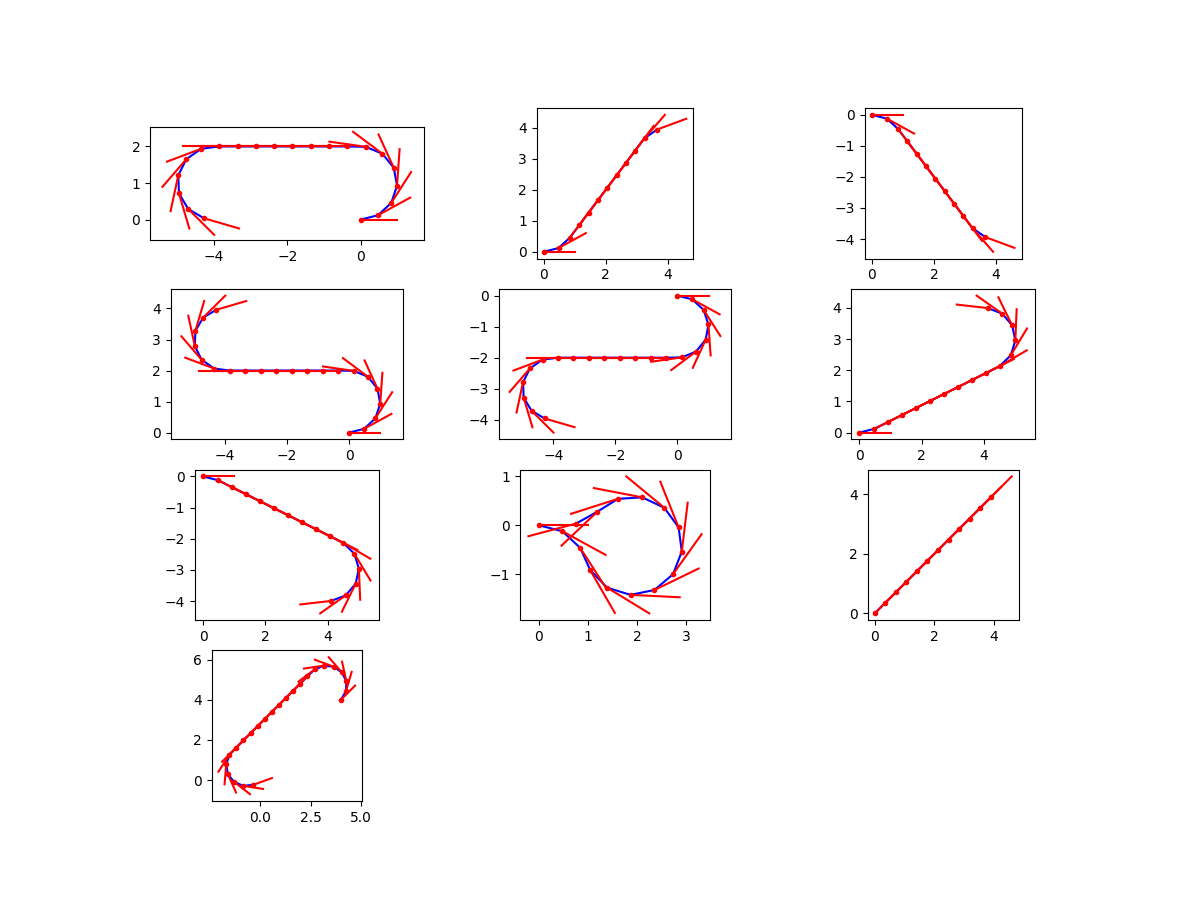
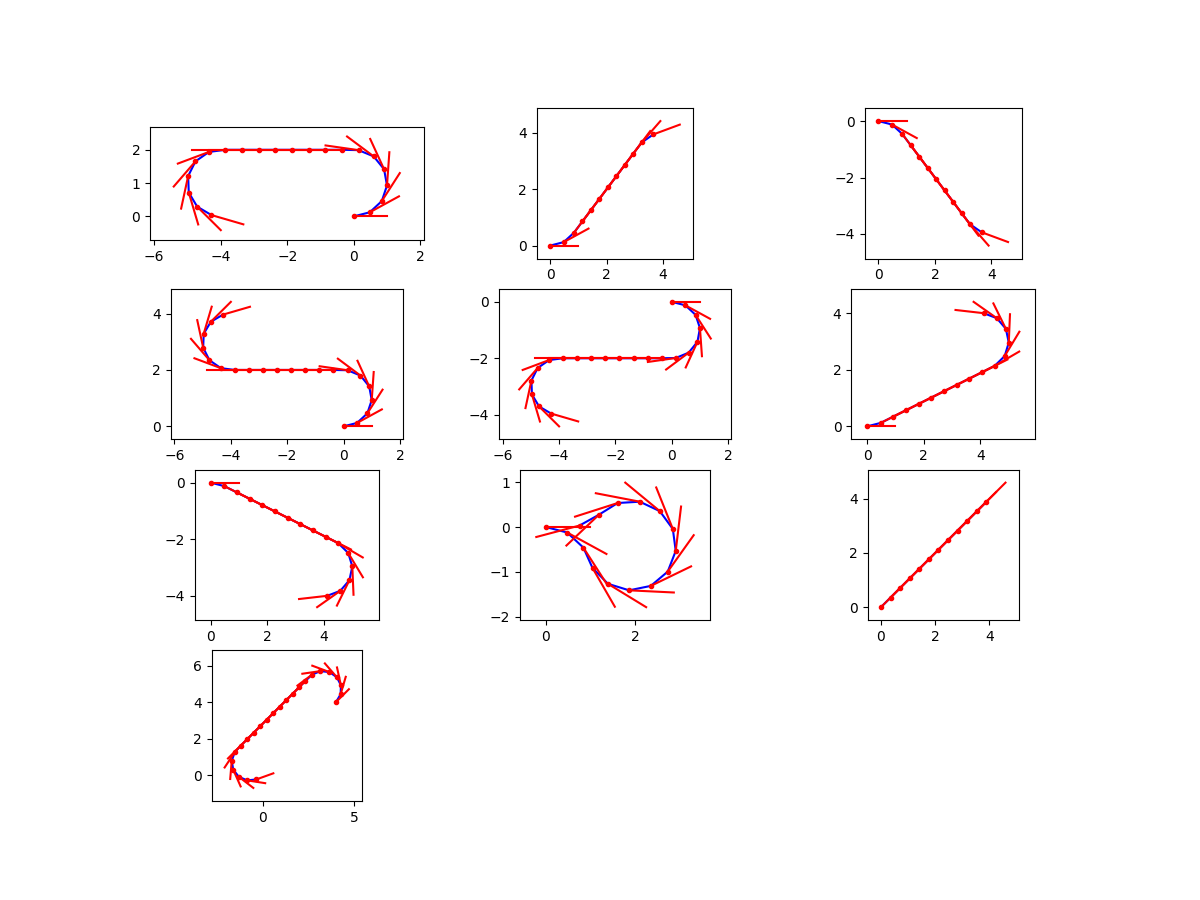
test diff path examples

diff --git a/dubins_car.py b/dubins_car.py
@@ -6,9 +6,12 @@ from matplotlib.animation import FuncAnimation
 
 
 fig = plt.figure(figsize=(10,10))
-q0 = (2.0, 1.0, math.pi/10)
-#q0 = (0.0, 0.0, math.pi/4)
+
+q0 = (0.0, 0.0, math.pi/4)
 q1 = (-4.0, 4.0, -math.pi/10)
+
+# some other paths examples
+#q0 = (2.0, 1.0, math.pi/10)
 # q0 = (0.0, 0.0, math.pi/4)
 # q1 = (-4.0, 4.0, -math.pi)
 
@@ -22,9 +25,9 @@ xsdata, ysdata = [], []
 xsdata2, ysdata2 = [], []
 xdata, ydata = [],[]
 
-ln,  = plt.plot([], [], 'b-')
+ln,  = plt.plot([], [], 'b-', label='trajectory', linewidth=4)
 ln2, = plt.plot([], [], 'r.')
-ln3, = plt.plot([], [], 'r-')
+ln3, = plt.plot([], [], 'g-', linewidth=2)
 
 # initialization function 
 def init():
@@ -45,23 +48,26 @@ def animate(i):
     us = xs + np.cos(qs[:, 2])
     vs = ys + np.sin(qs[:, 2])
     plt.plot(xs, ys, 'b-')
-    #plt.plot(xs, ys, 'r.')
-    #print(qs)
+    plt.plot(xs, ys, 'r.')
+
     xsdata.append(xs[i])
-    print("x =", xs[i], "y =", ys[i], "theta =", theta[i])
     ysdata.append(ys[i])
     xsdata2.append(xs)
     ysdata2.append(ys)
-    
-    # xdata.append([xs[i], us[i]])
-    # ydata.append([ys[i], vs[i]])
+
+    print("x =", xs[i], "y =", ys[i], "theta =", theta[i])
+    xdata.append([xs[i], us[i]])
+    ydata.append([ys[i], vs[i]])
+
+    plt.plot([xs[i], us[i]], [ys[i], vs[i]],'r->')
+
     ln.set_data(xsdata, ysdata)
     ln2.set_data(xsdata2, ysdata2)
     ln3.set_data(xdata,ydata)
     return ln,ln2,ln3,
 
 # setting a title for the plot 
-plt.title('Dubins path!')
+plt.title('Dubins path by Boaz Raz')
 
 # call the animator	 
 ani = FuncAnimation(fig, animate, frames=len(qs), interval=500,

diff --git a/demo_dubins_car.py b/demo_dubins_car.py
@@ -2,16 +2,11 @@ import dubins
 import matplotlib
 import matplotlib.pyplot as plt
 import numpy
-import matplotlib.animation as animation 
-
-
 
 fig = matplotlib.rcParams['figure.figsize'] = 12, 9
 
-
-#fig = plt.figure()
 ax = plt.axes(xlim=(-150, 150), ylim=(-150, 150))
-line, = ax.plot([], [], lw=2) 
+
 
 qs = [
     (0.0, 0.0, 0.0),
@@ -54,16 +49,6 @@ def expand_plot(ax, scale = 1.1):
     expand_axis(ax, scale, 'xlim')
     expand_axis(ax, scale, 'ylim')
 
-
-# lists to store x and y axis points 
-xdata, ydata = [], []
-
-# initialization function 
-def init():
-	# creating an empty plot/frame 
-    line.set_data([], []) 
-    return line, 
-
 def plot_dubins_path(q0, q1, r=1.0, step_size=0.5):
     path = dubins.shortest_path(q0, q1, r)
     qs, _ = path.sample_many(step_size)
@@ -77,7 +62,7 @@ def plot_dubins_path(q0, q1, r=1.0, step_size=0.5):
     for i in range(qs.shape[0]):
         plt.plot([xs[i], us[i]], [ys[i], vs[i]],'r-')
     ax = plt.gca()
-    #expand_plot(ax)
+    expand_plot(ax)
     ax.set_aspect('equal')
 
 def plot_dubins_table(cols, rho=1.0):
@@ -88,7 +73,6 @@ def plot_dubins_table(cols, rho=1.0):
         plot_dubins_path(qs[a], qs[b], r = rho)
     plt.savefig('samples.png')
     plt.show()
-
 
 if __name__ == "__main__":
     plot_dubins_table(3, 1.0)

diff --git a/bk-demo.py b/bk-demo.py
@@ -75,7 +75,7 @@ def plot_dubins_table(cols, rho=1.0):
     plt.show()
     
 
- if __name__ == "__main__":
+if __name__ == "__main__":
      plot_dubins_table(3, 1.0)
 
 
